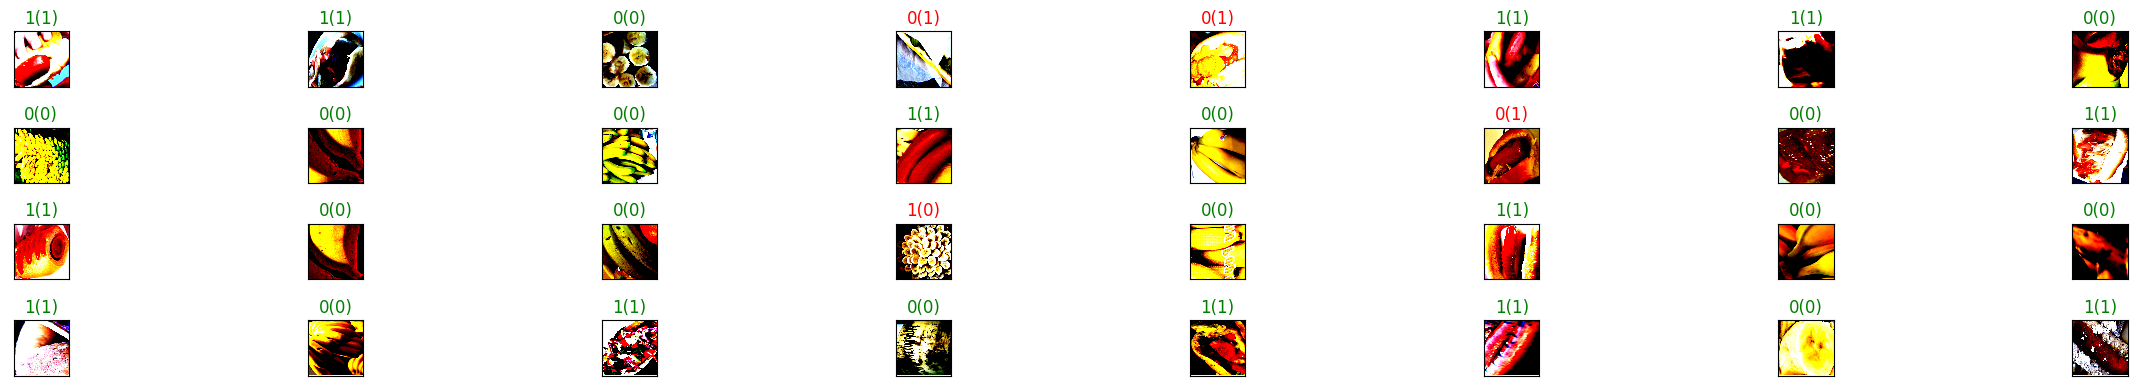
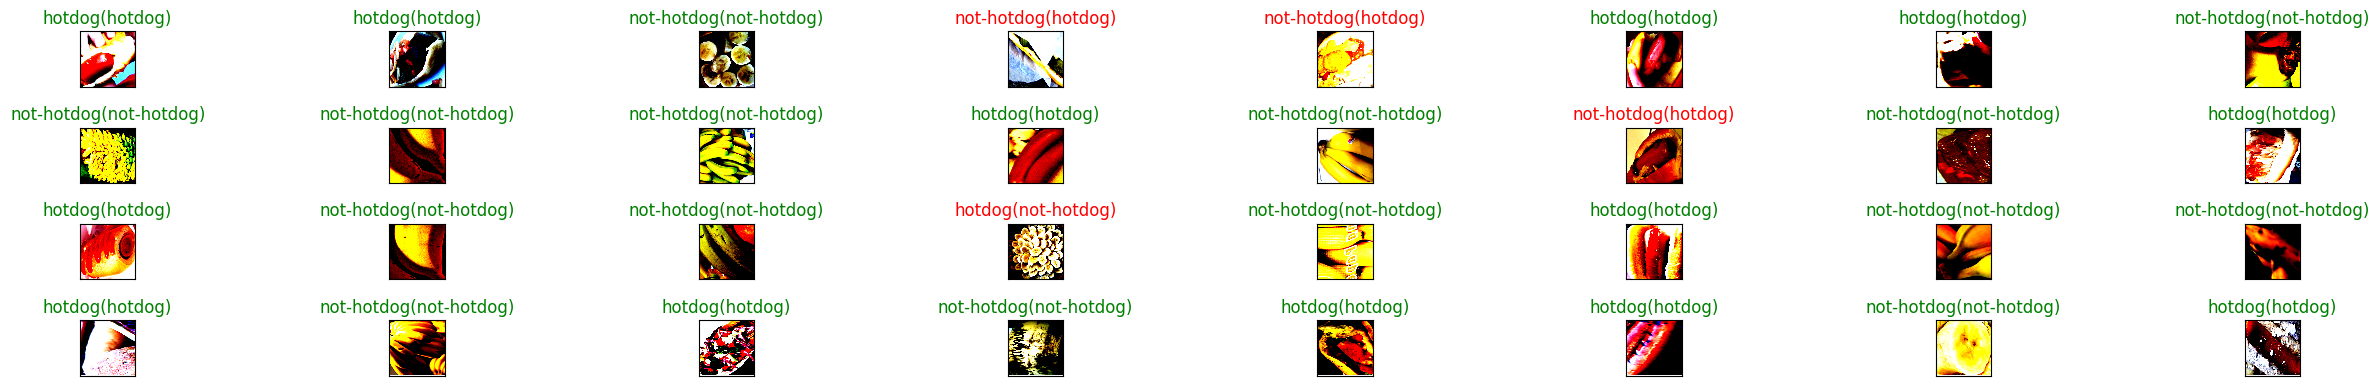
代码修改

diff --git a/分类/hotdog/model/test.py b/分类/hotdog/model/test.py
@@ -105,7 +105,7 @@ def test(model,datasets_folder,batch_size,data_len,criteron,device):
     print('Test All Acc is %2d%%(%2d/%2d)'%(100*np.sum(class_correct)/np.sum(class_total),np.sum(class_correct),np.sum(class_total)))
 
 
-def show_results(model,datasets_folder,batch_size,device):
+def show_results(model,datasets_folder,batch_size,device,num_to_label):
     dataiter=iter(datasets_folder)
     images,labels=dataiter.next()
     
@@ -123,7 +123,7 @@ def show_results(model,datasets_folder,batch_size,device):
         img=torch.transpose(images[idx].cpu(),0,2)
         ax=fig.add_subplot(4, batch_size/4, idx+1,xticks=[],yticks=[])
         ax.imshow(img.cpu())
-        ax.set_title('{}({})'.format(str(pred[idx].item()),str(labels[idx].item())),color=('green' if pred[idx] == labels[idx] else 'red'))
+        ax.set_title('{}({})'.format(num_to_label[str(pred[idx].item())],num_to_label[str(labels[idx].item())]),color=('green' if pred[idx] == labels[idx] else 'red'))
     plt.tight_layout()
     fig.savefig('test.png',bbox_inches='tight')
     return plt
@@ -139,7 +139,9 @@ test_data_len =len(test_dataset)
 
 criteron=torch.nn.CrossEntropyLoss()
 test(model,datasets_folder,batch_size=32,data_len=test_data_len,criteron=criteron,device=device)
-show_results(model,datasets_folder,batch_size=32,device=device)
+
+num_to_label={'0':'not-hotdog','1':'hotdog'}
+show_results(model,datasets_folder,batch_size=32,device=device,num_to_label=num_to_label)
     
         
     
